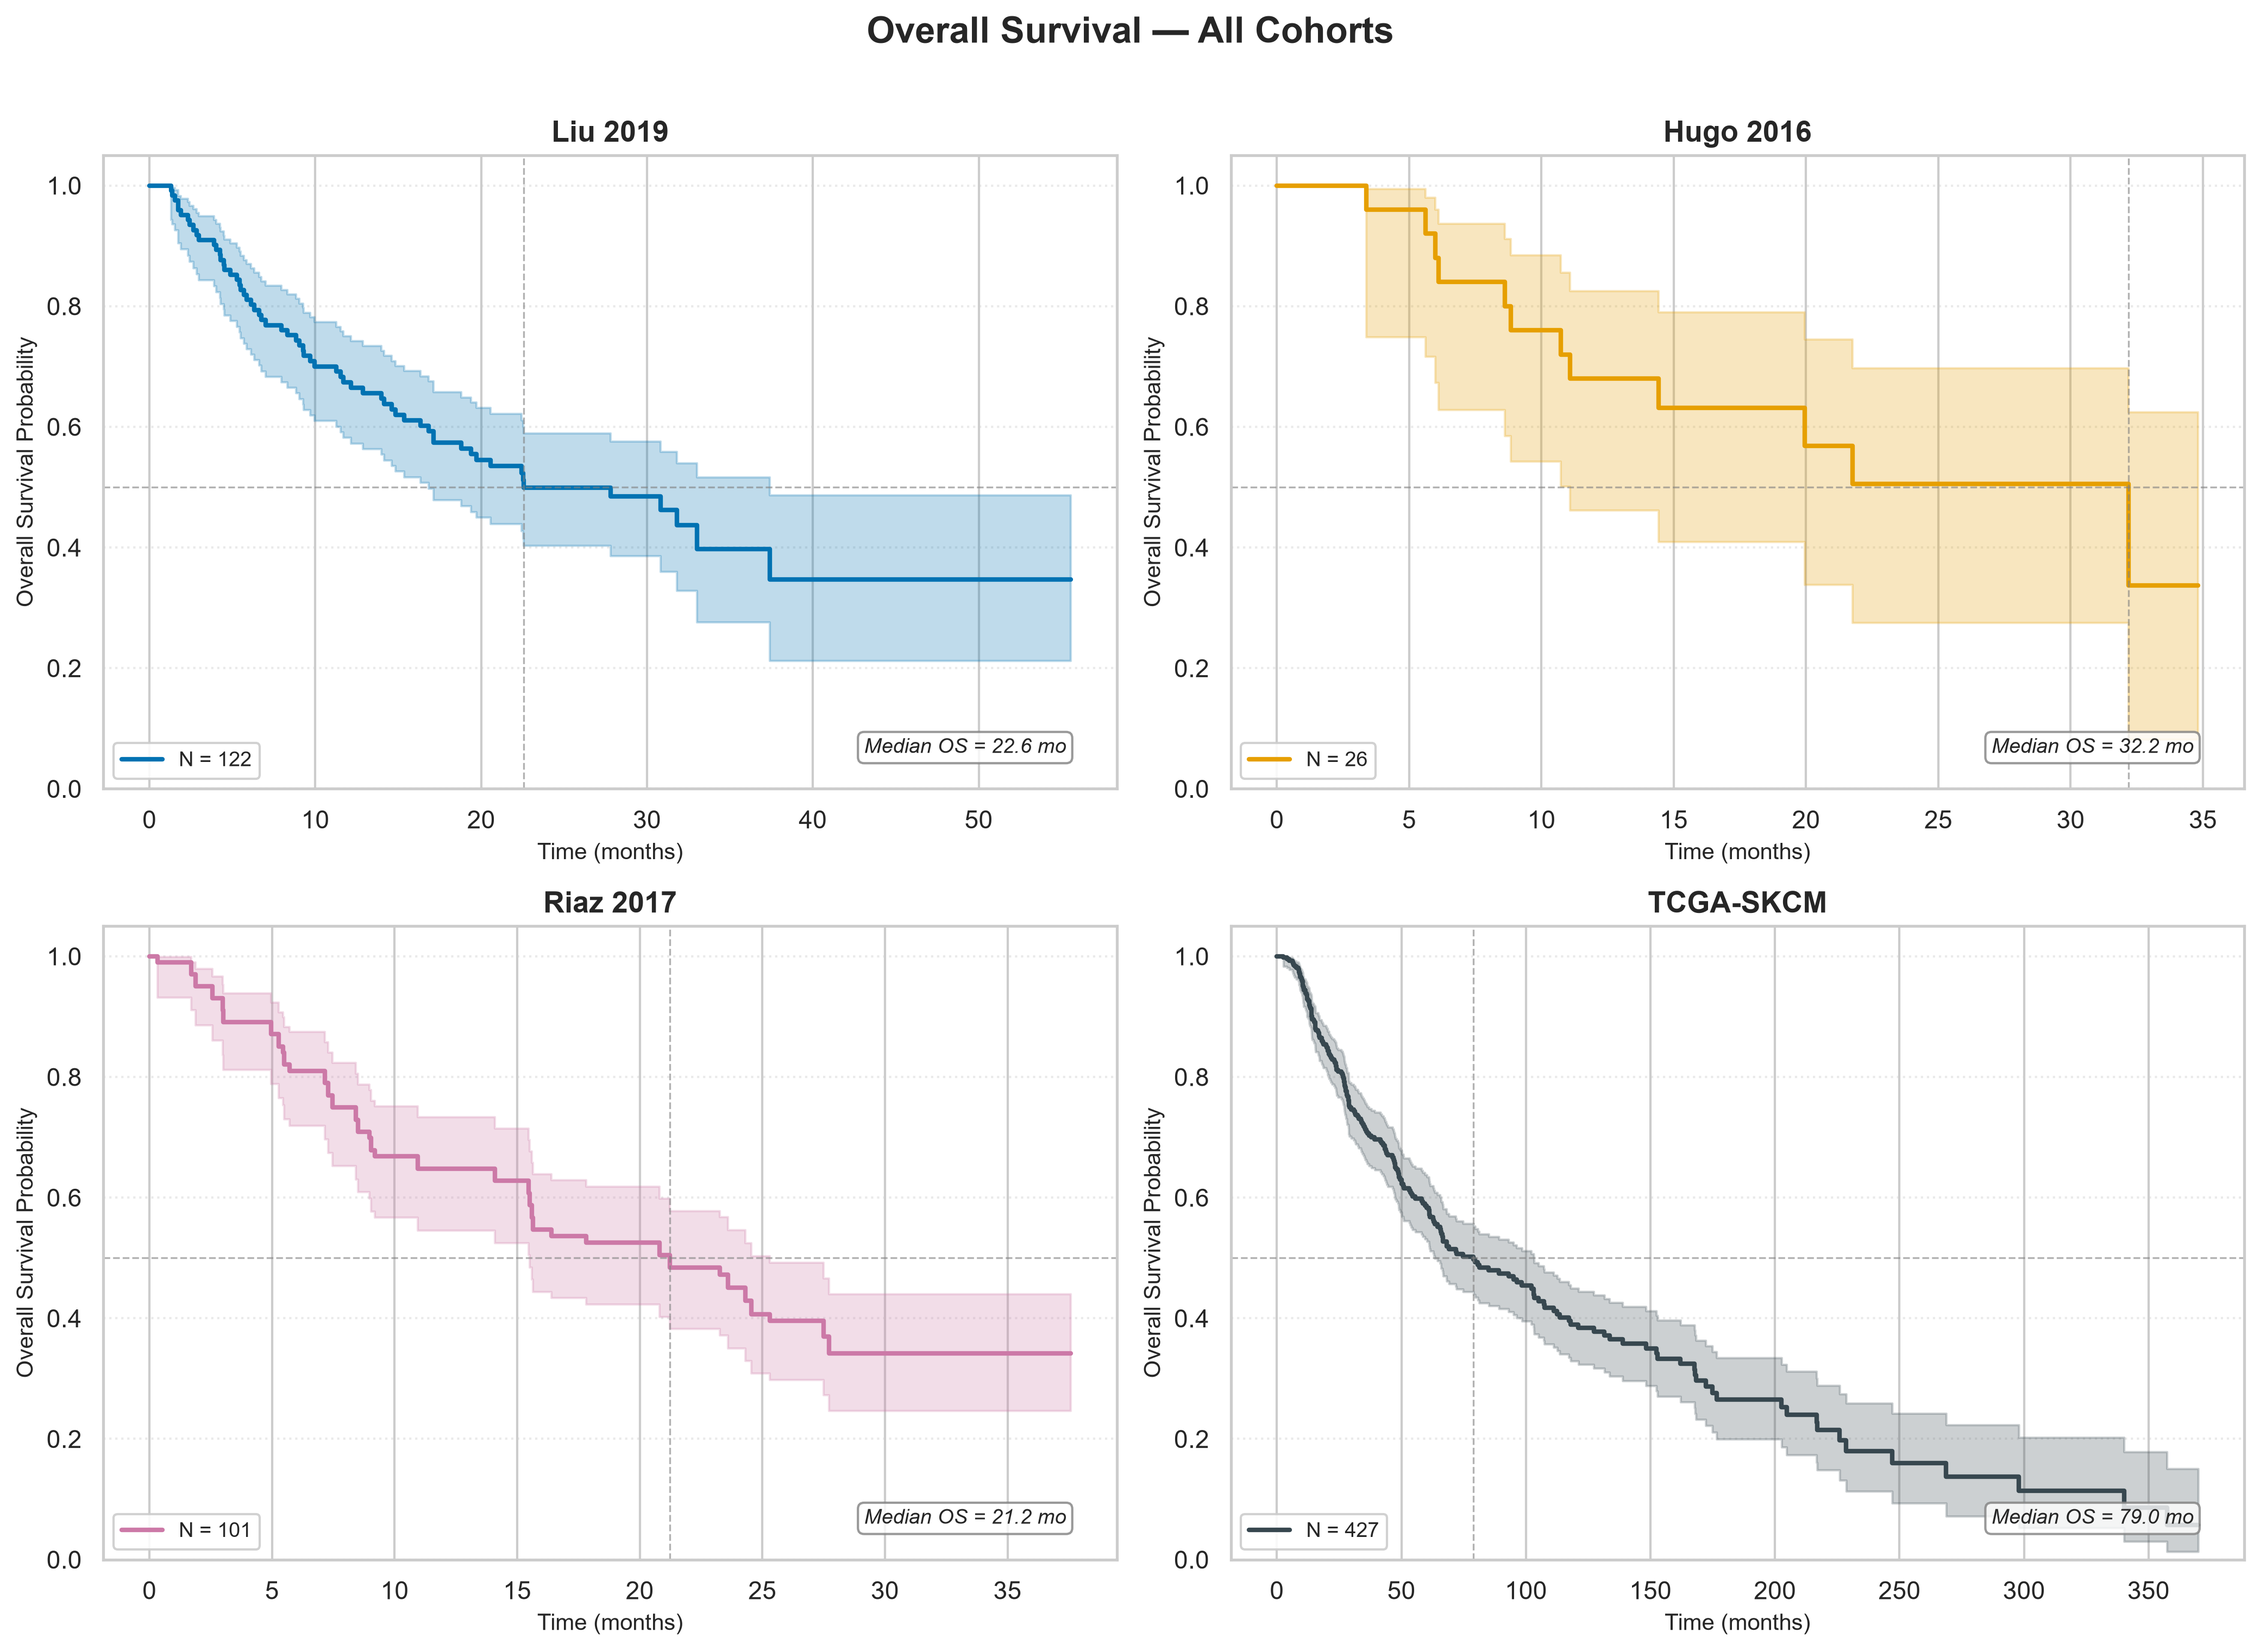
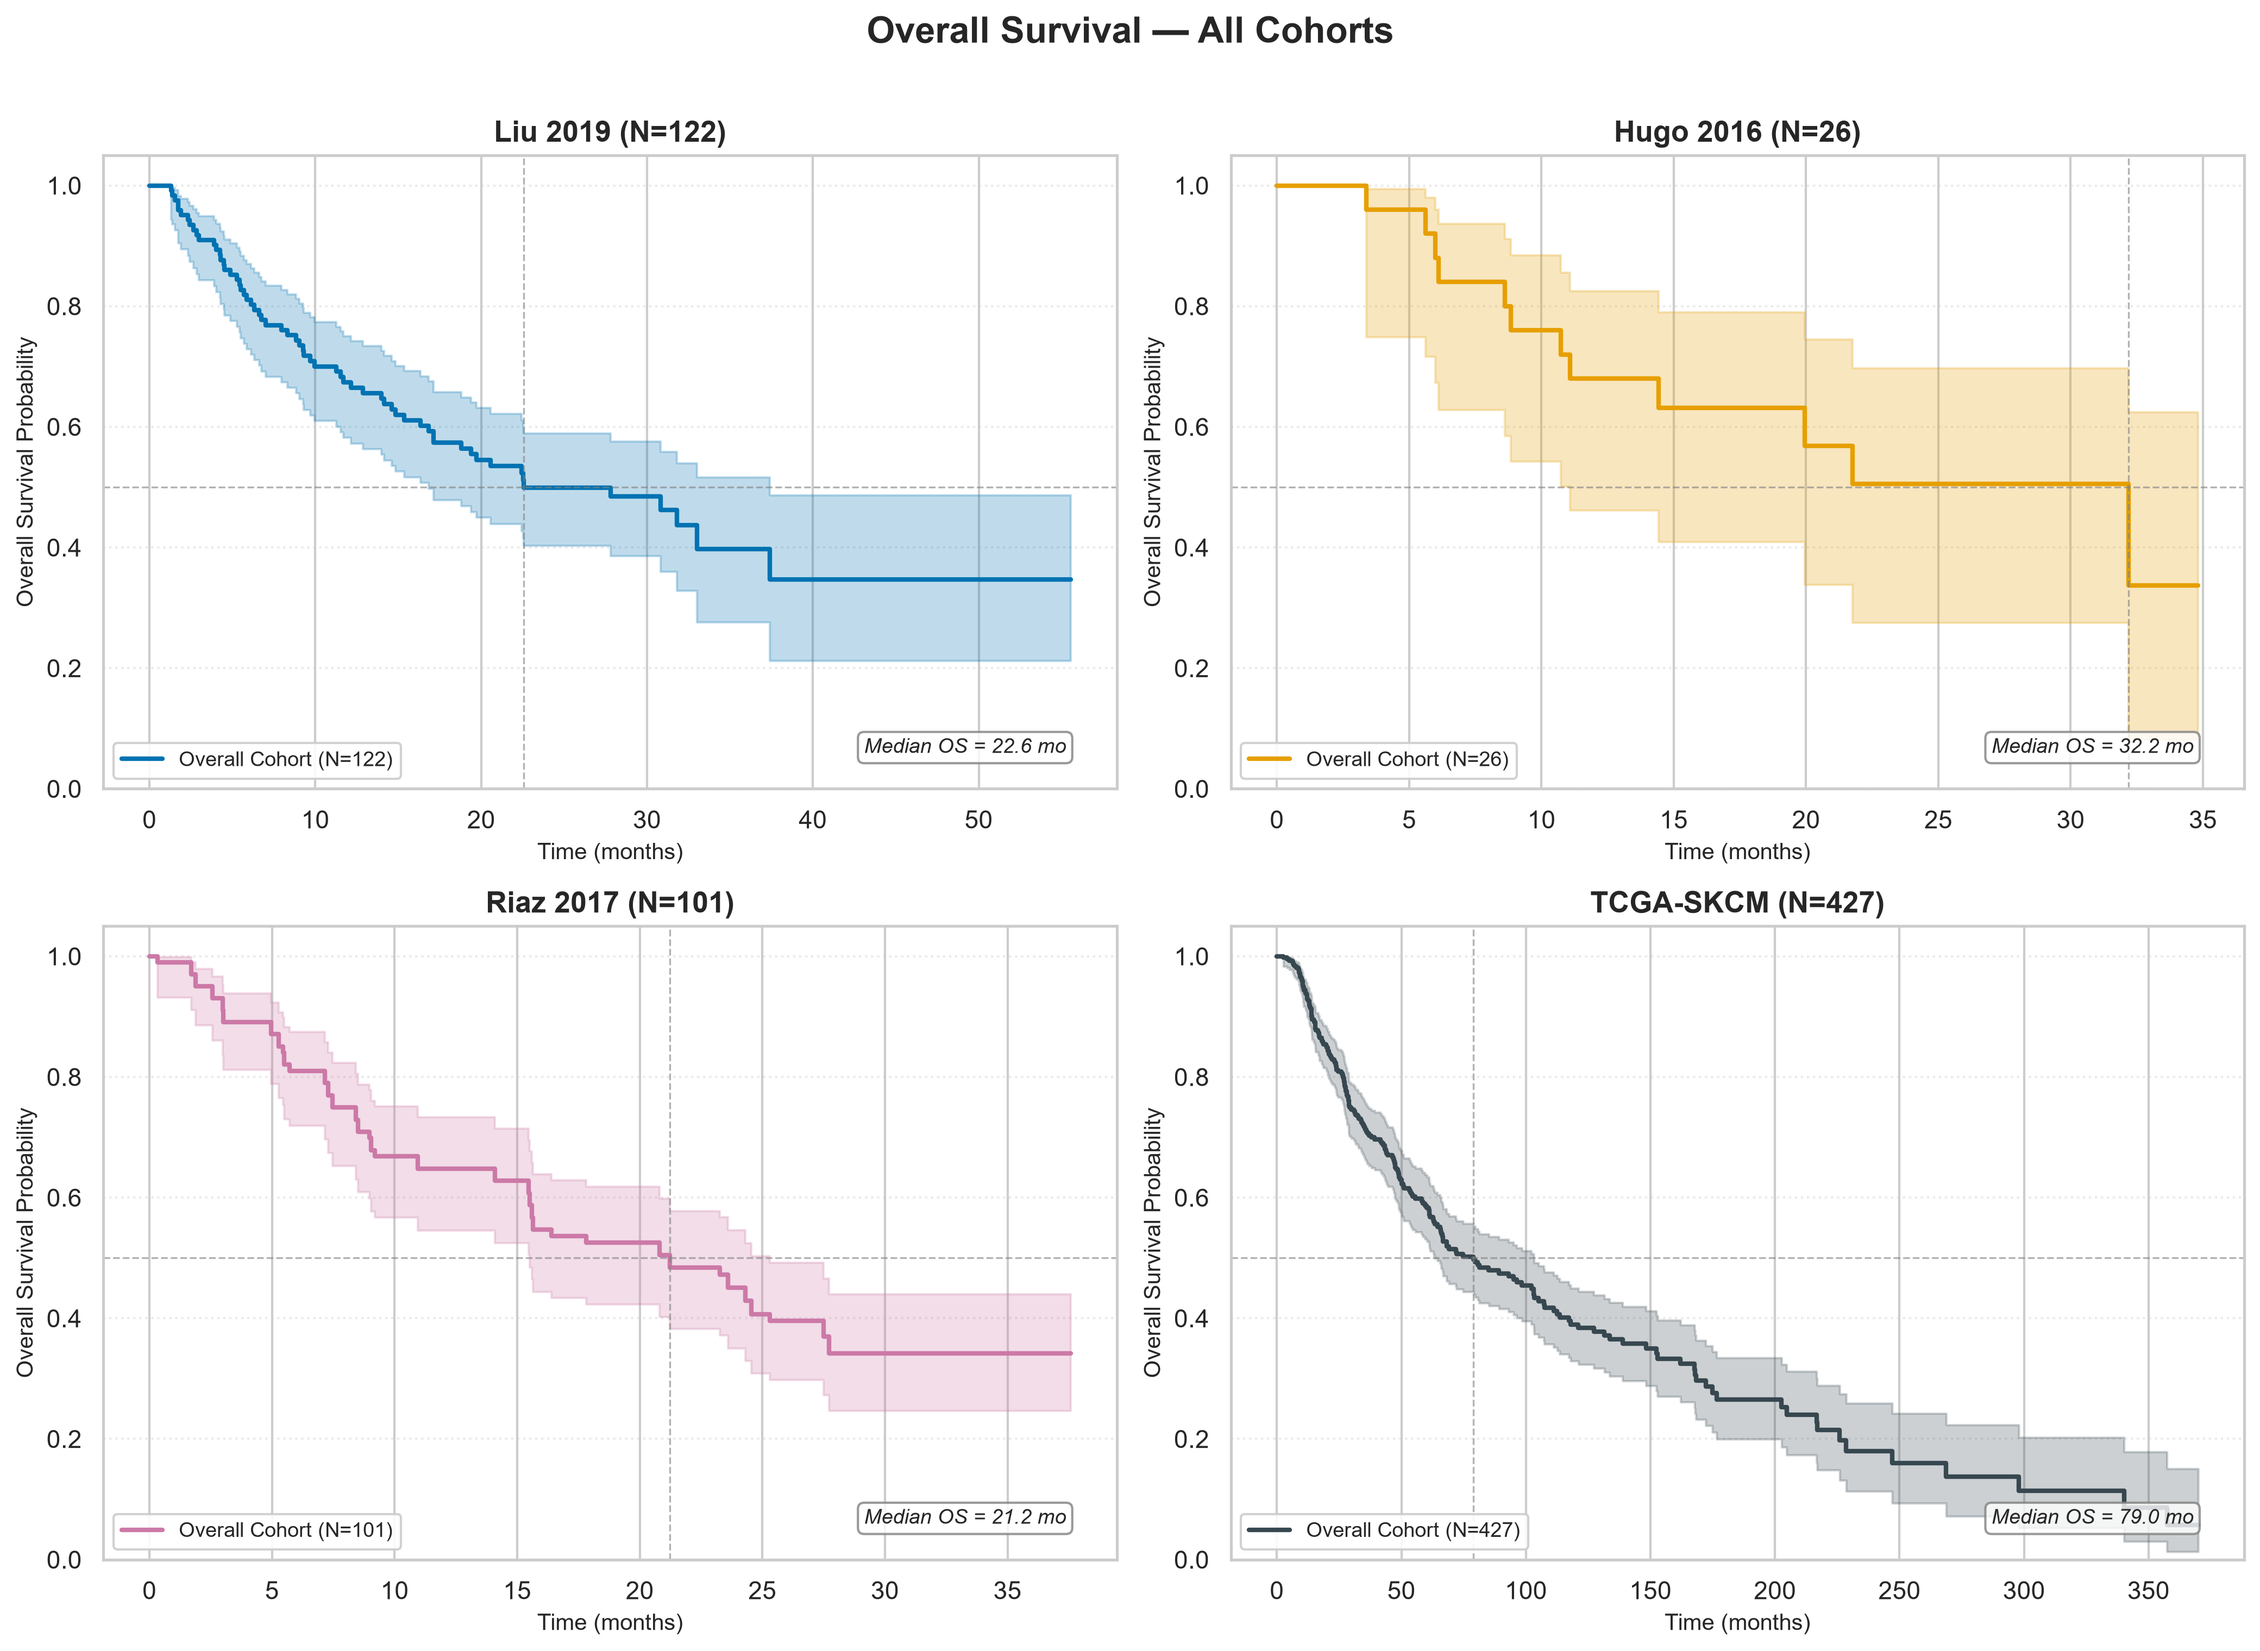
fix(clinical-analysis): update km_os_grid.png subplot titles to dynamically include live N counts
- Updated plot_km_os in run_clinical_analysis.py to display dynamic cohort titles with live sample sizes f'{cohort_label} (N={len(df)})'.
- Re-generated km_os_grid.png and cohort_characteristics_clinical.md.

diff --git a/q1-response-predictor/scripts/clinical_analysis/run_clinical_analysis.py b/q1-response-predictor/scripts/clinical_analysis/run_clinical_analysis.py
@@ -400,7 +400,7 @@ def plot_km_os(
     kmf.fit(
         durations=df[time_col],
         event_observed=df[event_col],
-        label=f"N = {len(df)}",
+        label=f"Overall Cohort (N={len(df)})",
     )
 
     kmf.plot_survival_function(
@@ -444,7 +444,7 @@ def plot_km_os(
             ),
         )
 
-    ax.set_title(cohort_label, fontsize=13, fontweight="bold")
+    ax.set_title(f"{cohort_label} (N={len(df)})", fontsize=13, fontweight="bold")
     ax.set_xlabel("Time (months)", fontsize=10)
     ax.set_ylabel("Overall Survival Probability", fontsize=10)
     ax.set_ylim(0, 1.05)

diff --git a/q1-response-predictor/reports/pillar-1-cohorts-and-preprocessing/cohort_characteristics_clinical.md b/q1-response-predictor/reports/pillar-1-cohorts-and-preprocessing/cohort_characteristics_clinical.md
@@ -7,12 +7,12 @@ tags:
   - clinical-analysis
   - cohort-characteristics
   - survival-analysis
-created: 2026-07-23 18:43
+created: 2026-07-23 23:25
 cssclasses:
   - table-small
 obsidianEditingMode: preview
 obsidianUIMode: source
-updated: 2026-07-23 18:43
+updated: 2026-07-23 23:25
 ---
 
 # Clinical Characteristics of Data Cohorts
